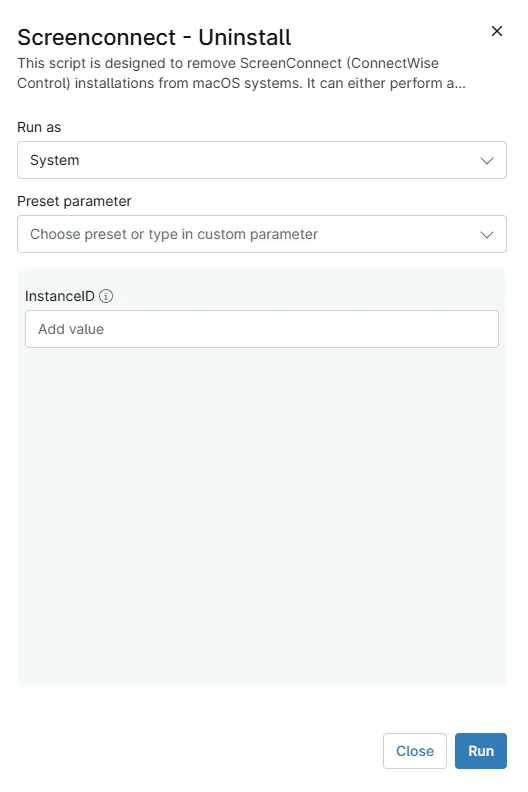
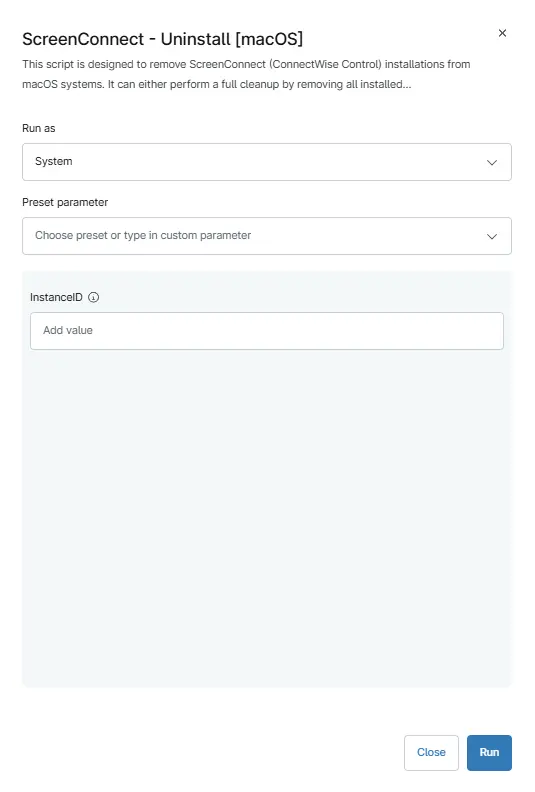
Append [macOS] to uninstall script names
Append the “[macOS]” platform tag to the script selection text in three NinjaOne automation docs to clarify they target macOS: automate-and-screenconnect-uninstaller.md, automate-uninstall-macos.md, and screenconnect-uninstall-macos.md. Updated the three corresponding screenshot images (image1.webp) to reflect the renamed script entries.

diff --git a/docs/ninjaone/automations/automate-and-screenconnect-uninstaller.md b/docs/ninjaone/automations/automate-and-screenconnect-uninstaller.md
@@ -20,7 +20,7 @@ This script fully removes both ConnectWise Automate and ScreenConnect/ConnectWis
 `Play Button` > `Run Automation` > `Script`  
 ![SampleRun1](../../../static/img/docs/b97b3d2c-ecc6-42ff-9236-36b14765c9b7/samplerun1.webp)
 
-Search and select `Automate and Screenconnect Uninstaller`
+Search and select `Automate and Screenconnect Uninstaller [macOS]`
 
 ![Image1](../../../static/img/docs/052ad6fb-db8f-41f4-991f-f3c9d73b3b1c/image1.webp)
 

diff --git a/docs/ninjaone/automations/automate-uninstall-macos.md b/docs/ninjaone/automations/automate-uninstall-macos.md
@@ -20,7 +20,7 @@ This script facilitates the complete removal of the ConnectWise Automate agent f
 `Play Button` > `Run Automation` > `Script`  
 ![SampleRun1](../../../static/img/docs/b97b3d2c-ecc6-42ff-9236-36b14765c9b7/samplerun1.webp)
 
-Search and select `Automate - Uninstall`
+Search and select `Automate - Uninstall [macOS]`
 
 ![Image1](../../../static/img/docs/55558313-8736-4660-91df-593a84ad1cf3/image1.webp)
 

diff --git a/docs/ninjaone/automations/screenconnect-uninstall-macos.md b/docs/ninjaone/automations/screenconnect-uninstall-macos.md
@@ -20,7 +20,7 @@ This script is designed to remove ScreenConnect (ConnectWise Control) installati
 `Play Button` > `Run Automation` > `Script`  
 ![SampleRun1](../../../static/img/docs/b97b3d2c-ecc6-42ff-9236-36b14765c9b7/samplerun1.webp)
 
-Search and select `Screenconnect - Uninstall`
+Search and select `Screenconnect - Uninstall [macOS]`
 
 ![Image1](../../../static/img/docs/f44b5186-4991-4b70-ba9c-1559706fcb6a/image1.webp)
 